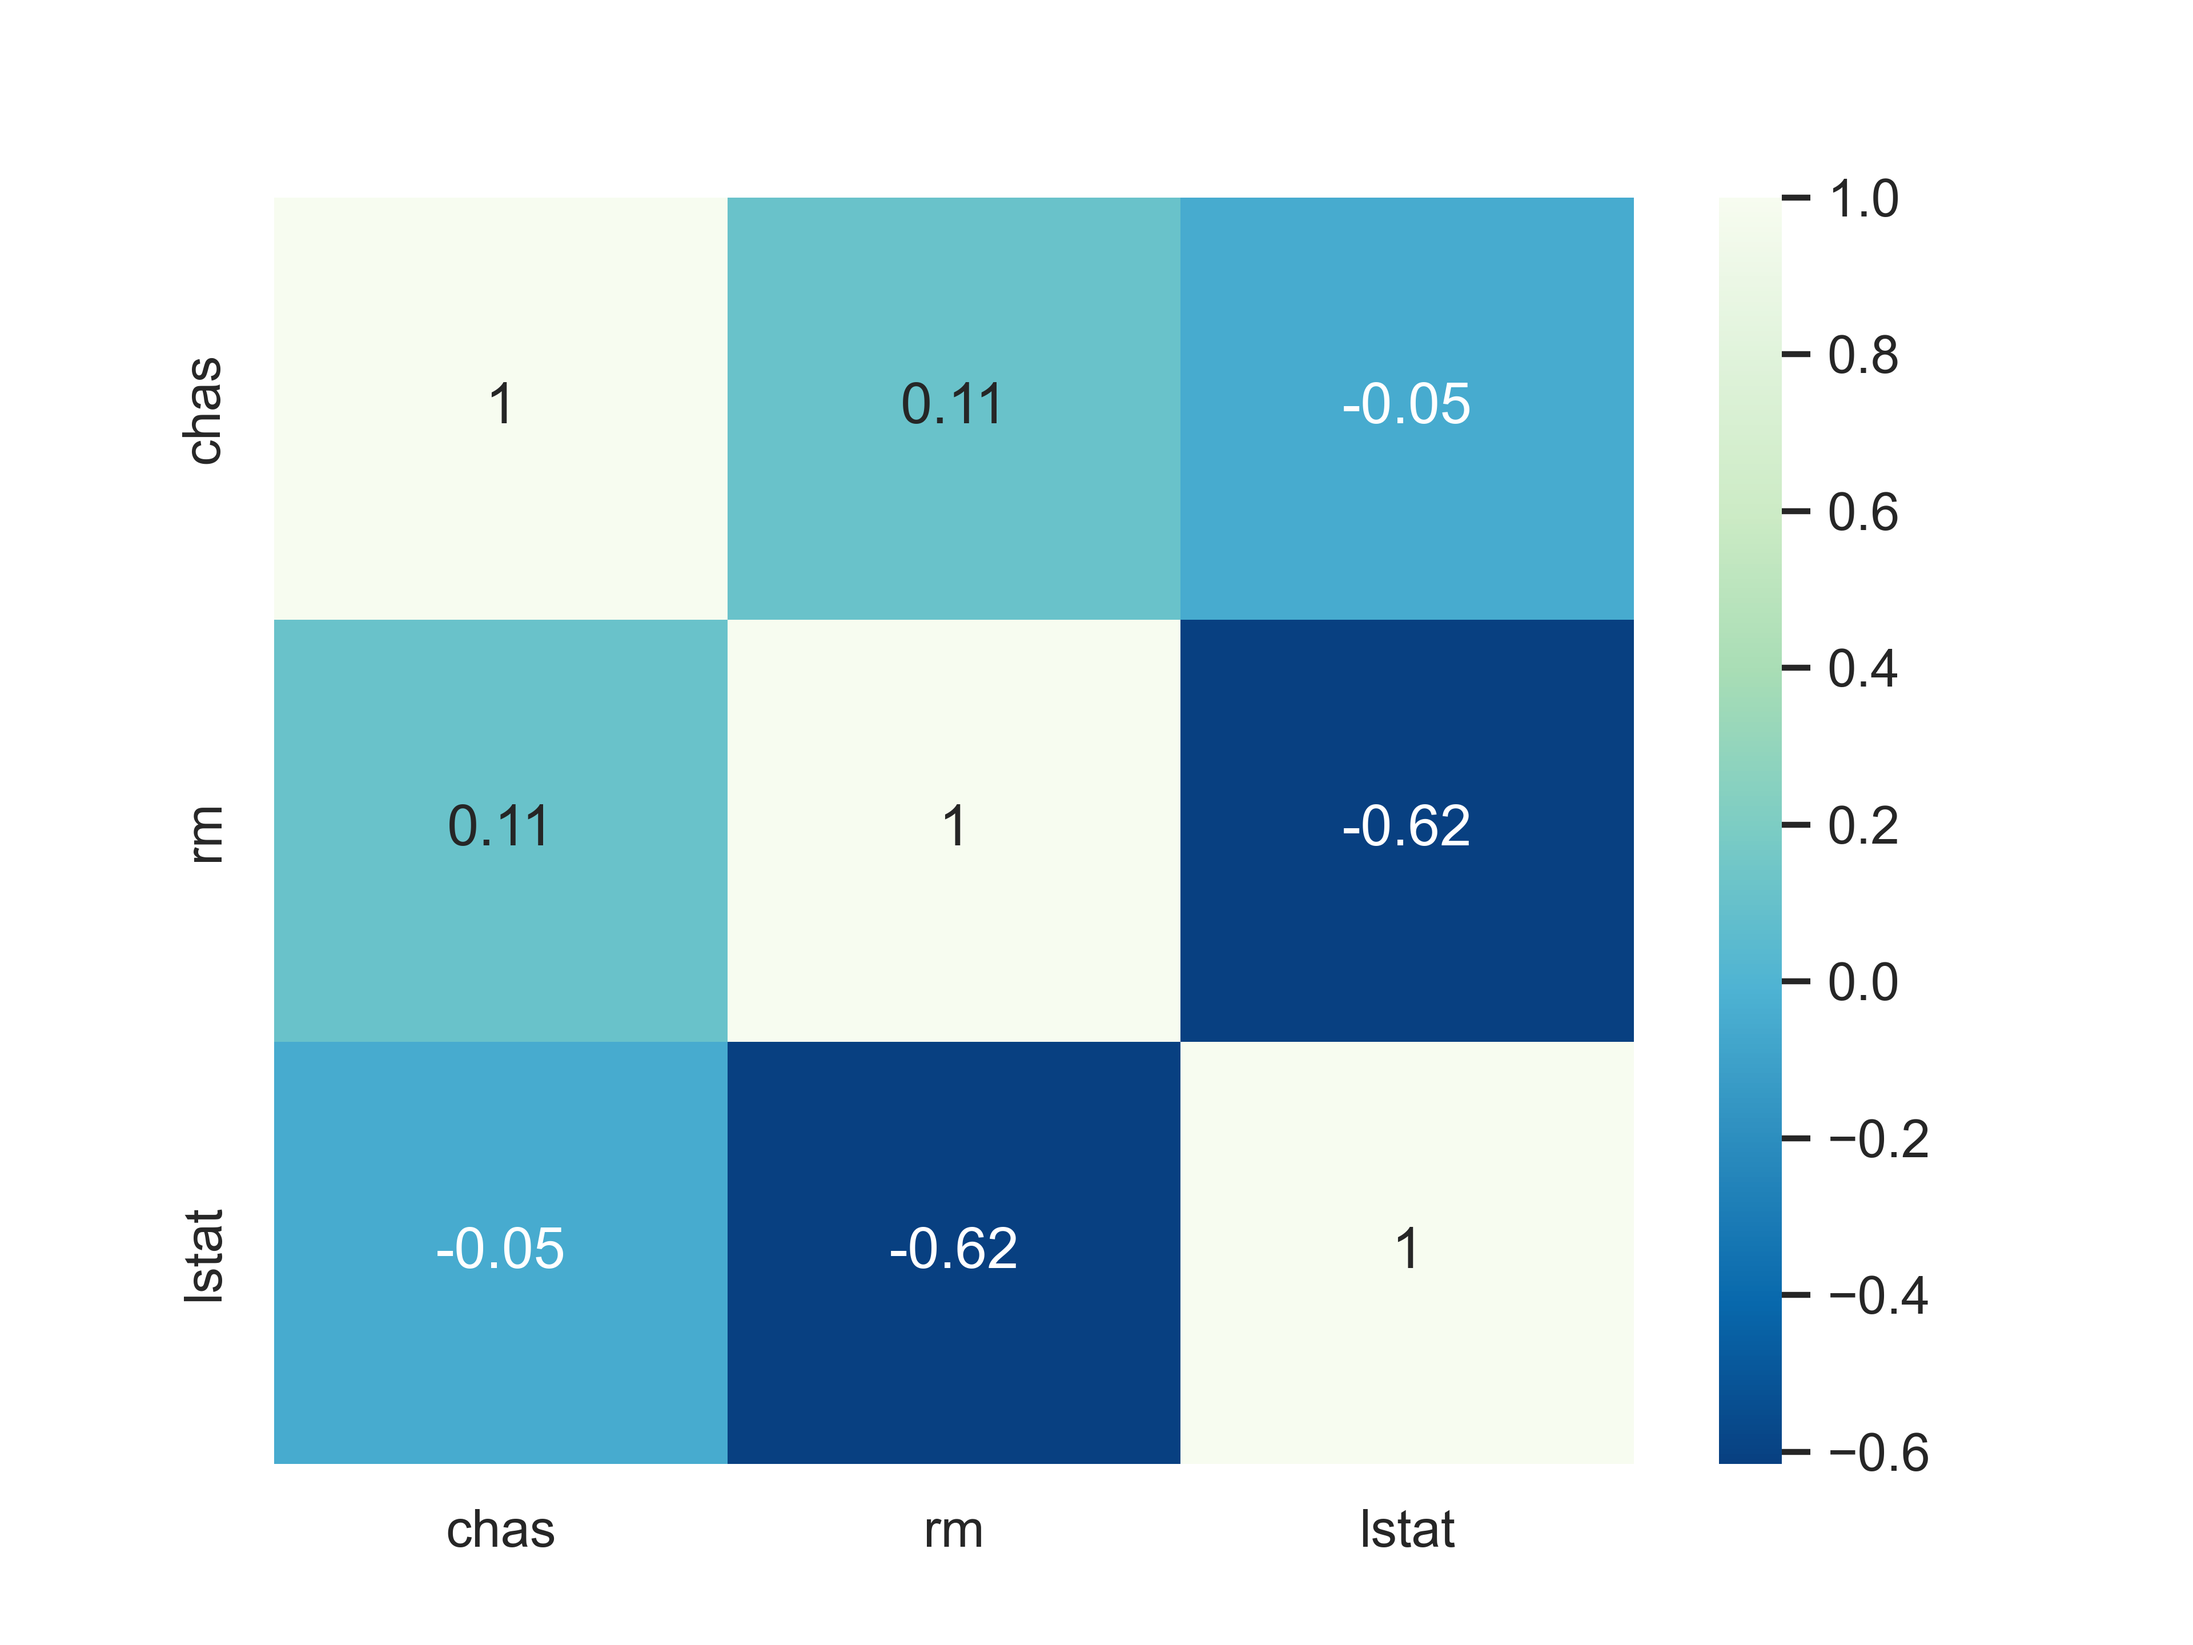
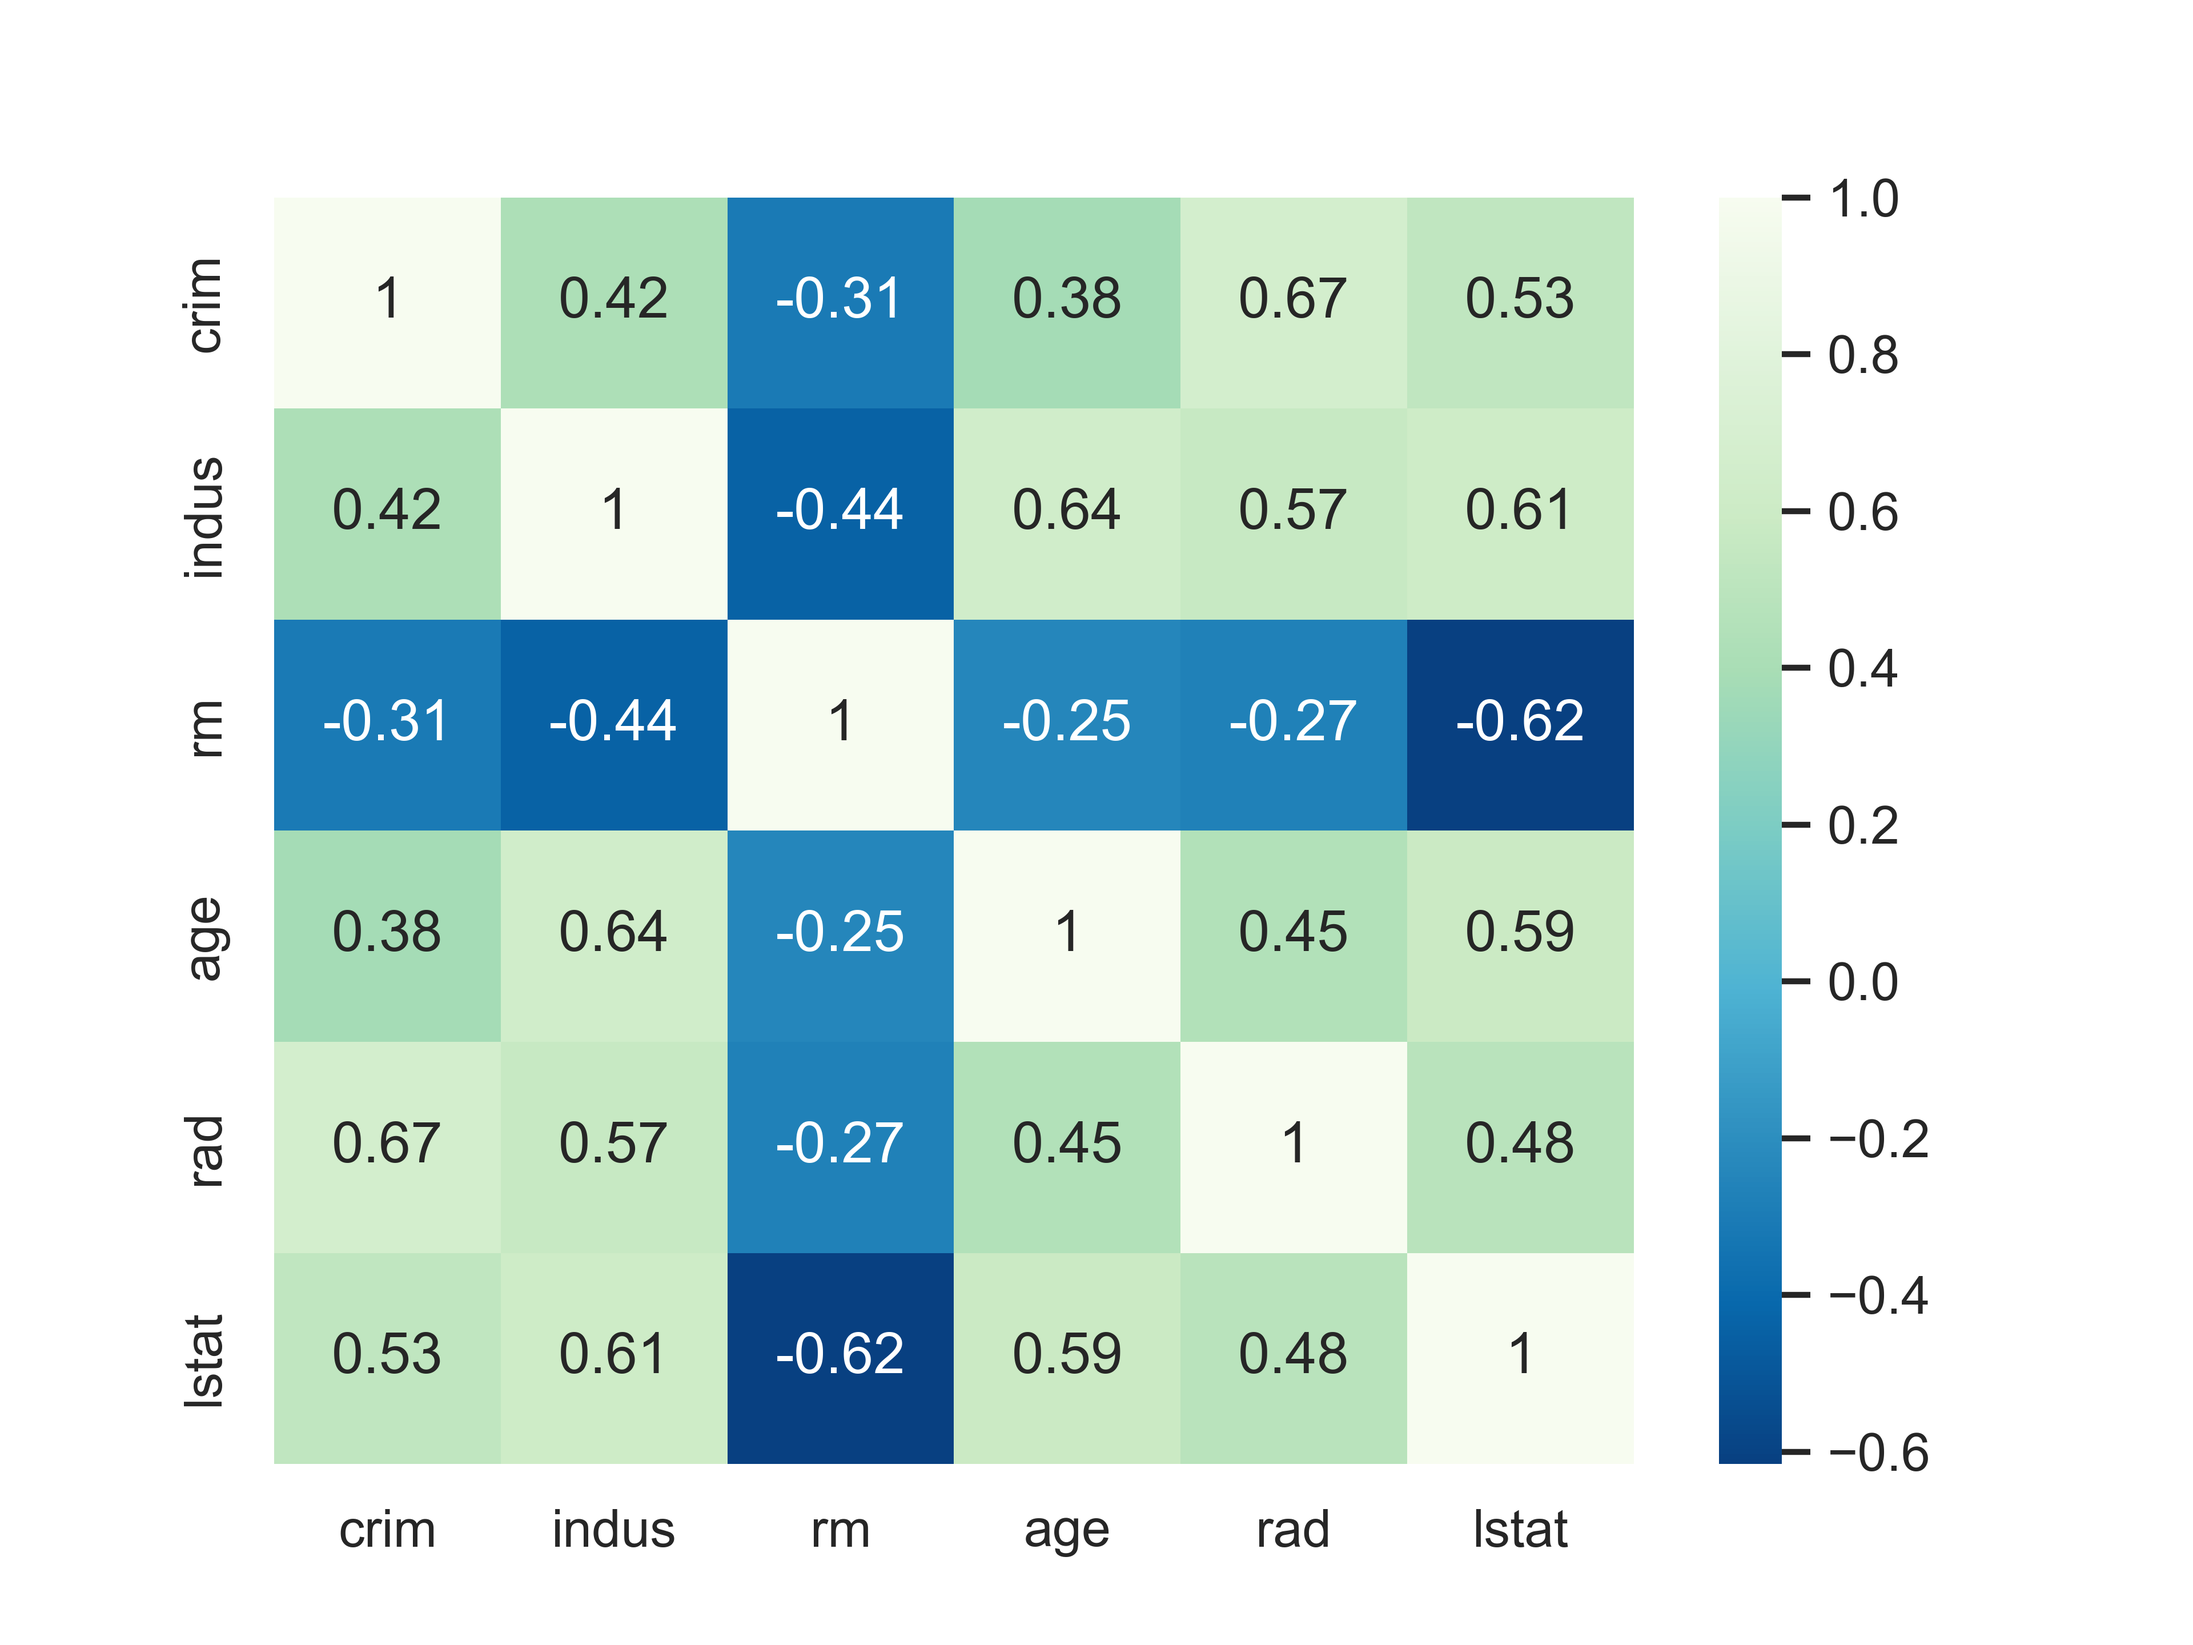
MLP完成

diff --git a/study/数学建模/机器学习/神经网络/MLP多层感知机_回归.py b/study/数学建模/机器学习/神经网络/MLP多层感知机_回归.py
@@ -1,0 +1,96 @@
+import torch
+import torch.nn as nn
+import torch.optim as optim
+import pandas as pd
+from sklearn.preprocessing import MinMaxScaler
+from torch.utils.data import TensorDataset, DataLoader
+import matplotlib.pyplot as plt
+df = pd.read_csv("C:\\Users\Jimes\PycharmProjects\pythonProject\study\数学建模\机器学习\神经网络\TCN\ID,crim,zn,indus,chas,nox,rm,age,di.csv",
+                 usecols=['lstat','rm','crim','age','indus'])
+# 自变量
+train_x = df[['rm','crim','age','indus']].values
+train_x = MinMaxScaler().fit_transform(train_x)    #标准化
+# 因变量
+train_y = df['lstat'].values
+# 转成 Tensor
+train_x = torch.tensor(train_x, dtype=torch.float32)  # shape: [batch, 1, seq_len]
+train_y = torch.tensor(train_y, dtype=torch.float32)     # shape: [batch]
+
+# 创建 Dataset
+dataset = TensorDataset(train_x, train_y)
+# 创建 DataLoader
+train_loader = DataLoader(dataset, batch_size=64, shuffle=True)
+
+
+class ResidualBlock(nn.Module):
+    def __init__(self, in_features, out_features, dropout=0.2):
+        super().__init__()
+        self.fc = nn.Linear(in_features, out_features)
+        self.bn = nn.BatchNorm1d(out_features)
+        self.relu = nn.ReLU()
+        self.dropout = nn.Dropout(dropout)
+        # 如果输入输出维度不同，用线性层做投影
+        self.projection = None
+        if in_features != out_features:
+            self.projection = nn.Linear(in_features, out_features)
+    def forward(self, x):
+        identity = x
+        out = self.fc(x)
+        out = self.bn(out)
+        out = self.relu(out)
+        out = self.dropout(out)
+        if self.projection is not None:
+            identity = self.projection(identity) # 投影层
+        out = out + identity
+        return self.relu(out)
+# 定义 MLP
+net = nn.Sequential(
+    nn.Linear(4, 16),
+    nn.ReLU(),                   # 输入层激活
+    #ResidualBlock(3, 3, dropout=0),  # 输入输出相同
+    #ResidualBlock(32, 64, dropout=0),  # 输入输出不同，会自动加 projection
+    nn.Linear(16, 1)# 输出层一般不用激活（回归），分类时用 sigmoid/softmax
+)
+# 指定设备
+device = torch.device("cuda" if torch.cuda.is_available() else "cpu")
+print("Using device:", device)
+# 初始化网络、损失函数和优化器
+net = net.to(device)
+criterion = nn.MSELoss()
+#criterion = nn.CrossEntropyLoss()   # 多分类使用，最后几个节点有几类，内部自带 Softmax
+#criterion = nn.BCEWithLogitsLoss()   # 二分类使用，内部自带 Sigmoid 转概率
+optimizer = optim.Adam(net.parameters(), lr=1e-3)
+
+# 训练
+epochs = 1200
+losses = []
+for epoch in range(epochs):
+    net.train()
+    total_loss = 0
+    for x, y in train_loader:
+        x, y = x.to(device), y.to(device)
+        optimizer.zero_grad()
+        output = net(x)
+        loss = criterion(output.squeeze(), y)
+        loss.backward()
+        optimizer.step()
+        total_loss += loss.item()
+    if epoch % 100 == 0:
+        losses.append(loss.item())
+        print(f"Epoch {epoch+1}, Loss: {total_loss / len(train_loader):.4f}")
+# 画 loss 曲线
+plt.plot(losses)
+plt.xlabel("Epoch")
+plt.ylabel("Loss")
+plt.show()
+# 测试
+pred = net(train_x.to(device)).detach().cpu().numpy()
+#print("预测值：")
+#print(pred)
+# 画出原始值的曲线
+plt.plot(range(len(train_y)), train_y, color='k', label='y')
+# 画出各个模型的预测线
+plt.plot(range(len(train_y)), pred.ravel(), 'r', label='pred')
+plt.title('MLP')
+plt.legend(loc='upper left')
+plt.show()

diff --git a/study/数学建模/机器学习/神经网络/MLP多层感知机_分类.py b/study/数学建模/机器学习/神经网络/MLP多层感知机_分类.py
@@ -1,0 +1,97 @@
+import numpy as np
+import torch
+import torch.nn as nn
+import torch.optim as optim
+import pandas as pd
+from sklearn.preprocessing import MinMaxScaler
+from torch.utils.data import TensorDataset, DataLoader
+import matplotlib.pyplot as plt
+import numpy as np
+df = pd.read_csv("C:\\Users\Jimes\PycharmProjects\pythonProject\study\数学建模\机器学习\神经网络\TCN\ID,crim,zn,indus,chas,nox,rm,age,di.csv",
+                 usecols=['rad','rm','crim','age','indus'])
+# 自变量
+train_x = df[['rm','crim','age','indus']].values
+train_x = MinMaxScaler().fit_transform(train_x)    #标准化
+# 因变量
+train_y = df['rad'].values
+print('分类种类:', np.unique(train_y))
+# 确保标签在 [0, num_classes-1]
+# 转成 Tensor
+train_x = torch.tensor(train_x, dtype=torch.float32)  # shape: [batch, 1, seq_len]
+train_y = torch.tensor(train_y, dtype=torch.float32)     # shape: [batch]
+
+# 创建 Dataset
+dataset = TensorDataset(train_x, train_y)
+# 创建 DataLoader
+train_loader = DataLoader(dataset, batch_size=64, shuffle=True)
+
+class ResidualBlock(nn.Module):
+    def __init__(self, in_features, out_features, dropout=0.2):
+        super().__init__()
+        self.fc = nn.Linear(in_features, out_features)
+        self.bn = nn.BatchNorm1d(out_features)
+        self.relu = nn.ReLU()
+        self.dropout = nn.Dropout(dropout)
+        # 投影层，输入输出维度不同时使用
+        self.projection = None
+        if in_features != out_features:
+            self.projection = nn.Linear(in_features, out_features)
+    def forward(self, x):
+        identity = x
+        out = self.fc(x)
+        out = self.bn(out)
+        out = self.relu(out)
+        out = self.dropout(out)
+        if self.projection is not None:
+            identity = self.projection(identity)
+        out = out + identity
+        return self.relu(out)
+
+net = nn.Sequential(
+    nn.Linear(4, 32),
+    nn.ReLU(),
+    ResidualBlock(32, 64, dropout=0),  # 可选残差块
+    nn.Linear(64, 25)           # 输出类别数
+)
+
+device = torch.device("cuda" if torch.cuda.is_available() else "cpu")
+print("Using device:", device)
+
+net = net.to(device)
+criterion = nn.CrossEntropyLoss()  # 多分类
+optimizer = optim.Adam(net.parameters(), lr=1e-3)
+
+# 训练网络
+num_epochs = 1000
+for epoch in range(num_epochs):
+    net.train()
+    running_loss = 0.0
+    for i, (inputs, labels) in enumerate(train_loader):
+        # 清零梯度
+        optimizer.zero_grad()
+        # 前向传播
+        outputs = net(inputs.to(device))
+        # 计算损失
+        loss = criterion(outputs, labels.to(device).long())
+        # 反向传播
+        loss.backward()
+        # 更新权重
+        optimizer.step()
+
+        running_loss += loss.item()
+    if epoch % 100 == 99:
+        print(f'Epoch [{epoch + 1}/{num_epochs}], Step [{i + 1}/{len(train_loader)}], Loss: {running_loss / 100:.4f}')
+        running_loss = 0.0
+
+# 测试网络
+net.eval()
+correct = 0
+total = 0
+with torch.no_grad():
+    for inputs, labels in train_loader:
+        outputs = net(inputs.to(device))
+        _, predicted = torch.max(outputs.data, 1)
+        total += labels.size(0)
+        correct += (predicted == labels.to(device)).sum().item()
+
+print(f'Accuracy of the network: {100 * correct / total:.2f}%')

diff --git a/study/数学建模/机器学习/神经网络/TCN/TCN.py b/study/数学建模/机器学习/神经网络/TCN/TCN.py
@@ -2,6 +2,7 @@ import torch
 import torch.nn as nn
 from torch.nn.utils import weight_norm
 import numpy as np
+import matplotlib.pyplot as plt
 np.set_printoptions(threshold=np.inf) # threshold 指定超过多少使用省略号，np.inf代表无限大
 np.set_printoptions(suppress=True) #不以科学计数法输出
 import warnings
@@ -140,3 +141,10 @@ for epoch in range(epochs):
 pred = model(train_x.to(device)).detach().cpu().numpy()
 print("预测值：")
 print(pred)
+# 画出原始值的曲线
+plt.plot(range(len(train_y)), train_y, color='k', label='y')
+# 画出各个模型的预测线
+plt.plot(range(len(train_y)), pred.ravel(), 'r', label='pred')
+plt.title('TCN')
+plt.legend(loc='upper left')
+plt.show()

diff --git a/study/数学建模/机器学习/分类/分类分析.py b/study/数学建模/机器学习/分类/分类分析.py
@@ -16,7 +16,7 @@ warnings.filterwarnings("ignore")
 
 
 df = pd.read_csv("ID,crim,zn,indus,chas,nox,rm,age,di.csv",
-                 usecols=['lstat','rm','crim','age','indus','chas'])
+                 usecols=['lstat','rm','crim','age','indus','rad'])
 #pre = pd.read_csv("实验数据.csv",
 #                      usecols=['lstat','rm', 'rad'])
 # 数据分析
@@ -27,7 +27,7 @@ df = pd.read_csv("ID,crim,zn,indus,chas,nox,rm,age,di.csv",
 X = df[['rm','crim','age','indus']].values
 #X_predict = pre[['lstat', 'rm']].values
 # 因变量
-y = df['chas'].values
+y = df['rad'].values
 #y_predict = pre['rad'].values
 print('分类种类:', np.unique(y))
 
